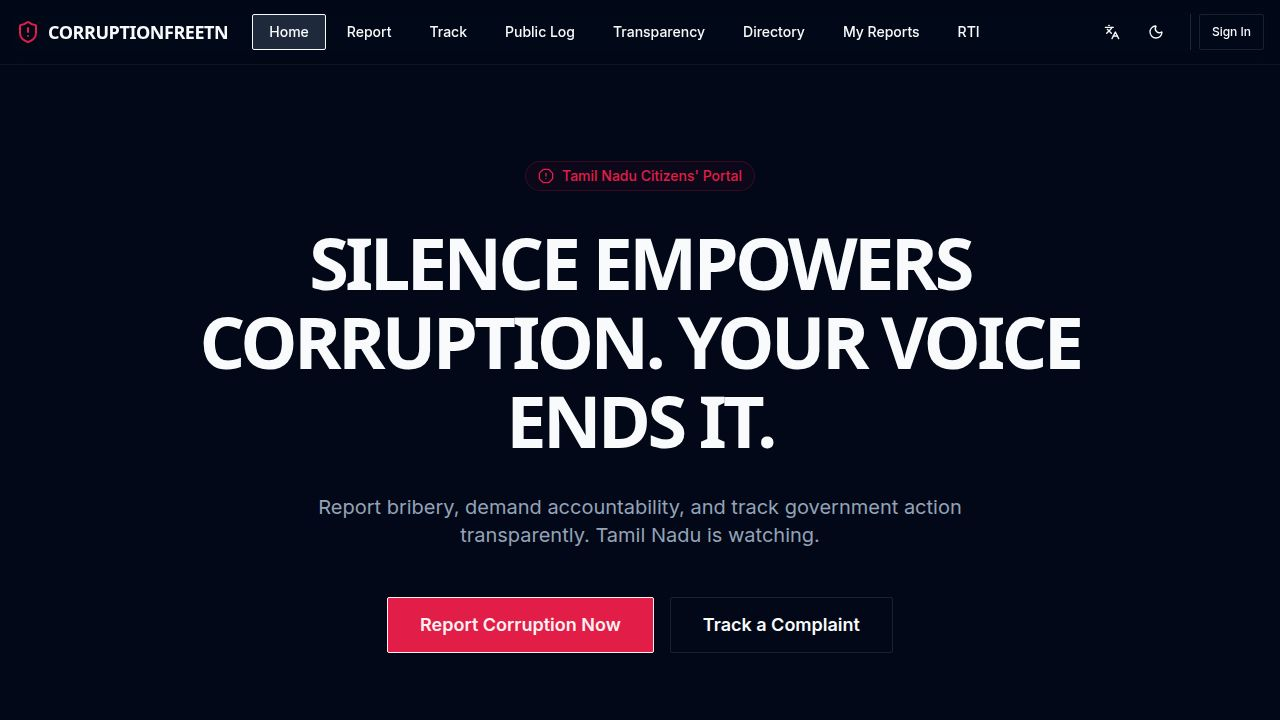
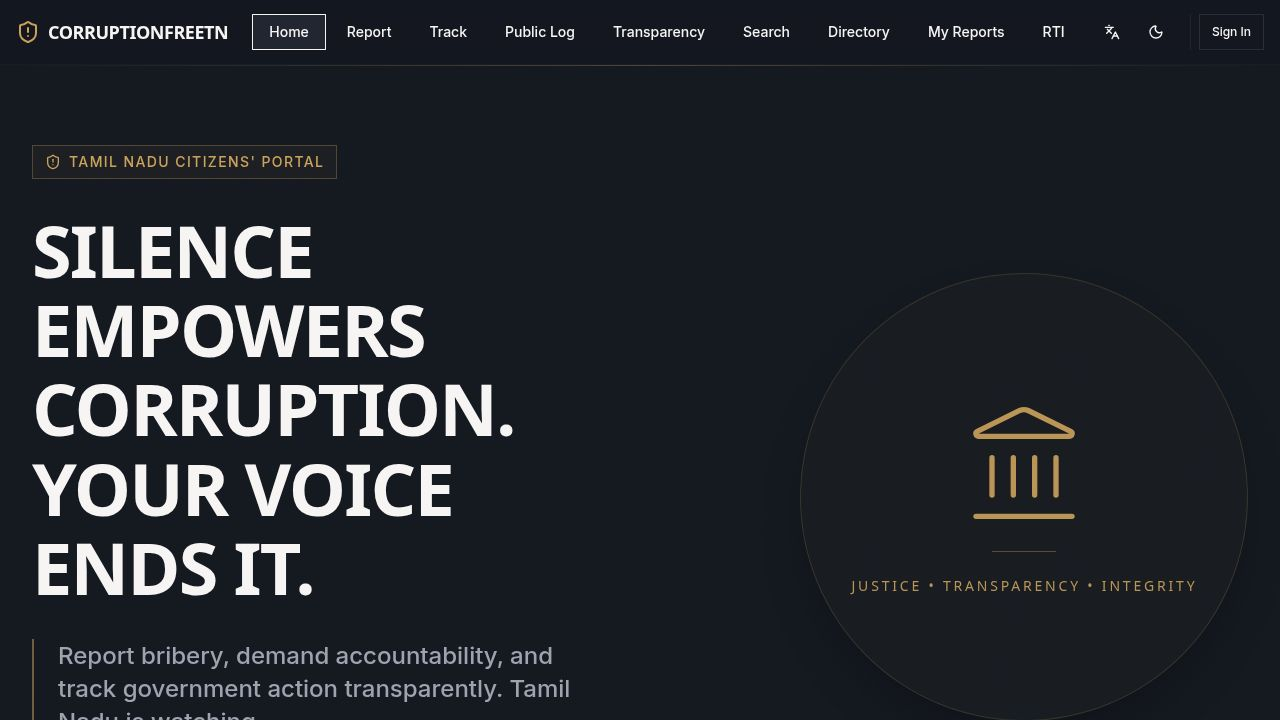
Task #16: Prevent lost complaints when file upload silently fails
- Reworked EvidenceUploader in artifacts/tn-portal/src/pages/submit.tsx:
  - Per-file upload state model (EvidenceItem: uploading/done/error) lifted
    to the Submit page, keeping the original File for retry.
  - Failed uploads now show an inline error row with a per-file Retry
    button (re-runs hash + upload URL request + PUT) and a remove button,
    instead of being silently dropped.
  - Destructive toast on failure with a description telling the user to
    retry or remove the file.
- Submit button on the review step is disabled while any file is failed
  or still uploading, with a visible hint ("Fix or remove failed uploads
  before submitting"), so complaints can no longer be filed with broken
  evidence references.
- Only files with status "done" (which have objectPath + fileHash) are
  attached via addEvidence on submit.
- Added English + Tamil translation keys: upload_failed, retry,
  evidence_upload_failed_toast, evidence_fix_uploads
  (artifacts/tn-portal/src/lib/translations.ts).
- Verified: tsc --noEmit passes; /submit page renders correctly.
- Proposed follow-ups: server-side verification of evidence objectPath
  (#17) and e2e test of the retry flow (#18).

Replit-Task-Id: 058a99db-75c5-4b92-9e1d-0240492a210c

diff --git a/artifacts/tn-portal/src/pages/submit.tsx b/artifacts/tn-portal/src/pages/submit.tsx
@@ -14,7 +14,8 @@ import { useCreateComplaint, useRequestUploadUrl, useAddEvidence, useAiClassifyC
 import { useUser } from "@clerk/react";
 import { useListDistricts, useListTaluks, useListDepartments, useListComplaintCategories, getListTaluksQueryKey } from "@workspace/api-client-react";
 import {
-  ChevronRight, ChevronLeft, Building, MapPin, User, Tag, FileText, CheckCircle, Paperclip, X, Upload, Sparkles
+  ChevronRight, ChevronLeft, Building, MapPin, User, Tag, FileText, CheckCircle, Paperclip, X, Upload, Sparkles,
+  AlertCircle, Loader2, RotateCw
 } from "lucide-react";
 
 const TOTAL_STEPS = 5;
@@ -82,20 +83,30 @@ function StepIndicator({ step, total }: { step: number; total: number }) {
   );
 }
 
-type UploadedFile = { name: string; objectPath: string; fileType: string; size: number; fileHash?: string };
+type EvidenceItem = {
+  id: string;
+  file: File | null;
+  name: string;
+  fileType: string;
+  size: number;
+  status: "uploading" | "done" | "error";
+  objectPath?: string;
+  fileHash?: string;
+};
 
 function EvidenceUploader({
-  files,
+  items,
   onChange,
 }: {
-  files: UploadedFile[];
-  onChange: (files: UploadedFile[]) => void;
+  items: EvidenceItem[];
+  onChange: (updater: (items: EvidenceItem[]) => EvidenceItem[]) => void;
 }) {
   const { t } = useI18n();
   const { toast } = useToast();
   const fileRef = useRef<HTMLInputElement>(null);
-  const [uploading, setUploading] = useState(false);
   const requestUpload = useRequestUploadUrl();
+
+  const anyUploading = items.some((i) => i.status === "uploading");
 
   const computeHash = async (file: File): Promise<string> => {
     const buf = await file.arrayBuffer();
@@ -105,36 +116,55 @@ function EvidenceUploader({
       .join("");
   };
 
-  const handleFiles = async (selected: FileList | null) => {
+  const uploadItem = async (id: string, file: File) => {
+    onChange((prev) =>
+      prev.map((it) => (it.id === id ? { ...it, status: "uploading" } : it))
+    );
+    try {
+      const [fileHash, uploadResult] = await Promise.all([
+        computeHash(file),
+        requestUpload.mutateAsync({
+          data: { name: file.name, size: file.size, contentType: file.type },
+        }),
+      ]);
+      const { uploadURL, objectPath } = uploadResult;
+      const putRes = await fetch(uploadURL, {
+        method: "PUT",
+        body: file,
+        headers: { "Content-Type": file.type },
+      });
+      if (!putRes.ok) throw new Error("Upload failed");
+      onChange((prev) =>
+        prev.map((it) =>
+          it.id === id ? { ...it, status: "done", objectPath, fileHash } : it
+        )
+      );
+    } catch {
+      onChange((prev) =>
+        prev.map((it) => (it.id === id ? { ...it, status: "error" } : it))
+      );
+      toast({
+        title: `${t("upload_failed")}: ${file.name}`,
+        description: t("evidence_upload_failed_toast"),
+        variant: "destructive",
+      });
+    }
+  };
+
+  const handleFiles = (selected: FileList | null) => {
     if (!selected || selected.length === 0) return;
-    setUploading(true);
-    const newFiles: UploadedFile[] = [];
     for (const file of Array.from(selected)) {
       if (file.size > 20 * 1024 * 1024) {
         toast({ title: `${file.name}: max 20MB`, variant: "destructive" });
         continue;
       }
-      try {
-        const [fileHash, uploadResult] = await Promise.all([
-          computeHash(file),
-          requestUpload.mutateAsync({
-            data: { name: file.name, size: file.size, contentType: file.type },
-          }),
-        ]);
-        const { uploadURL, objectPath } = uploadResult;
-        const putRes = await fetch(uploadURL, {
-          method: "PUT",
-          body: file,
-          headers: { "Content-Type": file.type },
-        });
-        if (!putRes.ok) throw new Error("Upload failed");
-        newFiles.push({ name: file.name, objectPath, fileType: file.type, size: file.size, fileHash });
-      } catch {
-        toast({ title: `Failed to upload ${file.name}`, variant: "destructive" });
-      }
+      const id = `${Date.now()}-${Math.random().toString(36).slice(2)}`;
+      onChange((prev) => [
+        ...prev,
+        { id, file, name: file.name, fileType: file.type, size: file.size, status: "uploading" },
+      ]);
+      void uploadItem(id, file);
     }
-    onChange([...files, ...newFiles]);
-    setUploading(false);
     if (fileRef.current) fileRef.current.value = "";
   };
 
@@ -146,7 +176,7 @@ function EvidenceUploader({
       >
         <Upload className="h-8 w-8 text-muted-foreground mx-auto mb-2" />
         <p className="text-sm text-muted-foreground">
-          {uploading ? t("uploading") : t("evidence_drop_hint")}
+          {anyUploading ? t("uploading") : t("evidence_drop_hint")}
         </p>
         <p className="text-xs text-muted-foreground mt-1">{t("evidence_types")}</p>
         <input
@@ -158,16 +188,49 @@ function EvidenceUploader({
           onChange={(e) => handleFiles(e.target.files)}
         />
       </div>
-      {files.length > 0 && (
+      {items.length > 0 && (
         <ul className="space-y-2">
-          {files.map((f, i) => (
-            <li key={i} className="flex items-center gap-2 bg-muted/20 rounded px-3 py-2 text-sm">
-              <Paperclip className="h-3.5 w-3.5 text-primary shrink-0" />
+          {items.map((f) => (
+            <li
+              key={f.id}
+              className={`flex items-center gap-2 rounded px-3 py-2 text-sm ${
+                f.status === "error"
+                  ? "bg-destructive/10 border border-destructive/30"
+                  : "bg-muted/20"
+              }`}
+            >
+              {f.status === "error" ? (
+                <AlertCircle className="h-3.5 w-3.5 text-destructive shrink-0" />
+              ) : f.status === "uploading" ? (
+                <Loader2 className="h-3.5 w-3.5 text-primary shrink-0 animate-spin" />
+              ) : (
+                <Paperclip className="h-3.5 w-3.5 text-primary shrink-0" />
+              )}
               <span className="truncate flex-1 text-foreground">{f.name}</span>
-              <span className="text-muted-foreground text-xs shrink-0">{(f.size / 1024).toFixed(0)}KB</span>
+              {f.status === "error" ? (
+                <>
+                  <span className="text-destructive text-xs font-medium shrink-0">
+                    {t("upload_failed")}
+                  </span>
+                  {f.file && (
+                    <button
+                      type="button"
+                      onClick={() => f.file && uploadItem(f.id, f.file)}
+                      className="flex items-center gap-1 text-xs font-semibold text-primary hover:underline shrink-0"
+                    >
+                      <RotateCw className="h-3 w-3" />
+                      {t("retry")}
+                    </button>
+                  )}
+                </>
+              ) : (
+                <span className="text-muted-foreground text-xs shrink-0">
+                  {(f.size / 1024).toFixed(0)}KB
+                </span>
+              )}
               <button
                 type="button"
-                onClick={() => onChange(files.filter((_, j) => j !== i))}
+                onClick={() => onChange((prev) => prev.filter((it) => it.id !== f.id))}
                 className="text-muted-foreground hover:text-destructive transition-colors"
               >
                 <X className="h-3.5 w-3.5" />
@@ -187,7 +250,9 @@ export default function Submit() {
   const { isSignedIn } = useUser();
   const [step, setStep] = useState(1);
   const [form, setForm] = useState<FormData>(empty);
-  const [evidenceFiles, setEvidenceFiles] = useState<UploadedFile[]>([]);
+  const [evidenceItems, setEvidenceItems] = useState<EvidenceItem[]>([]);
+  const evidenceFiles = evidenceItems.filter((it) => it.status === "done");
+  const hasUploadIssues = evidenceItems.some((it) => it.status === "error" || it.status === "uploading");
   const [result, setResult] = useState<{ complaintNumber: string; id: number } | null>(null);
 
   const canUploadEvidence = isSignedIn && !form.isAnonymous;
@@ -261,7 +326,7 @@ export default function Submit() {
         try {
           await addEvidence.mutateAsync({
             complaintId: created.id,
-            data: { fileUrl: f.objectPath, fileType: f.fileType, fileHash: f.fileHash, description: f.name },
+            data: { fileUrl: f.objectPath!, fileType: f.fileType, fileHash: f.fileHash, description: f.name },
           });
         } catch {
           evidenceFailed++;
@@ -307,7 +372,7 @@ export default function Submit() {
             <Button
               onClick={() => {
                 setForm(empty);
-                setEvidenceFiles([]);
+                setEvidenceItems([]);
                 setResult(null);
                 setStep(1);
               }}
@@ -620,7 +685,7 @@ export default function Submit() {
               <div className="space-y-2">
                 <Label>{t("evidence_label")}</Label>
                 {canUploadEvidence ? (
-                  <EvidenceUploader files={evidenceFiles} onChange={setEvidenceFiles} />
+                  <EvidenceUploader items={evidenceItems} onChange={setEvidenceItems} />
                 ) : (
                   <div className="rounded-lg border border-border/40 bg-muted/20 px-4 py-3 text-sm text-muted-foreground">
                     {!isSignedIn
@@ -635,7 +700,7 @@ export default function Submit() {
                   checked={form.isAnonymous}
                   onCheckedChange={(v) => {
                     upd("isAnonymous", !!v);
-                    if (!!v) setEvidenceFiles([]);
+                    if (!!v) setEvidenceItems([]);
                   }}
                 />
                 <div>
@@ -750,14 +815,19 @@ export default function Submit() {
                 <ChevronRight className="h-4 w-4" />
               </Button>
             ) : (
-              <Button
-                onClick={handleSubmit}
-                disabled={createComplaint.isPending}
-                className="gap-2 min-w-[140px]"
-              >
-                {createComplaint.isPending ? t("submitting") : t("submit_btn")}
-                {!createComplaint.isPending && <CheckCircle className="h-4 w-4" />}
-              </Button>
+              <div className="flex flex-col items-end gap-1.5">
+                <Button
+                  onClick={handleSubmit}
+                  disabled={createComplaint.isPending || hasUploadIssues}
+                  className="gap-2 min-w-[140px]"
+                >
+                  {createComplaint.isPending ? t("submitting") : t("submit_btn")}
+                  {!createComplaint.isPending && <CheckCircle className="h-4 w-4" />}
+                </Button>
+                {hasUploadIssues && (
+                  <p className="text-xs text-destructive text-right">{t("evidence_fix_uploads")}</p>
+                )}
+              </div>
             )}
           </div>
         </CardContent>

diff --git a/artifacts/tn-portal/src/lib/translations.ts b/artifacts/tn-portal/src/lib/translations.ts
@@ -35,6 +35,10 @@ export const translations = {
     evidence_anon_notice: "Evidence upload is not available for anonymous complaints. Uncheck \"Submit anonymously\" to attach files.",
     evidence_auth_notice: "Sign in to attach evidence files to your complaint.",
     evidence_error: "Some files could not be attached. Your complaint was filed, but please re-submit evidence.",
+    upload_failed: "Upload failed",
+    retry: "Retry",
+    evidence_upload_failed_toast: "The file could not be uploaded. Tap Retry next to the file, or remove it to continue.",
+    evidence_fix_uploads: "Fix or remove failed uploads before submitting.",
     form_location: "Specific Location (Optional)",
     form_witnesses: "Witnesses (Optional)",
     submit_btn: "Submit Report securely",
@@ -154,6 +158,10 @@ export const translations = {
     evidence_anon_notice: "பெயர் சொல்லாமல் தாக்கல் செய்யும்போது ஆவணம் இணைக்க முடியாது. ஆவணம் இணைக்க \"பெயர் சொல்லாமல் அனுப்பு\" என்பதை நீக்கவும்.",
     evidence_auth_notice: "ஆவணங்கள் இணைக்க உள்நுழையவும்.",
     evidence_error: "சில கோப்புகள் இணைக்கப்படவில்லை. உங்கள் புகார் தாக்கல் செய்யப்பட்டது — தயவுசெய்து ஆவணங்களை மீண்டும் சமர்ப்பிக்கவும்.",
+    upload_failed: "பதிவேற்றம் தோல்வியடைந்தது",
+    retry: "மீண்டும் முயற்சி",
+    evidence_upload_failed_toast: "கோப்பைப் பதிவேற்ற முடியவில்லை. கோப்பின் அருகில் உள்ள 'மீண்டும் முயற்சி' என்பதை அழுத்தவும், அல்லது கோப்பை நீக்கிவிட்டு தொடரவும்.",
+    evidence_fix_uploads: "சமர்ப்பிக்கும் முன் தோல்வியடைந்த பதிவேற்றங்களை சரிசெய்யவும் அல்லது நீக்கவும்.",
     form_location: "நடந்த இடம் (கட்டாயம் இல்லை)",
     form_witnesses: "சாட்சிகள் (கட்டாயம் இல்லை)",
     submit_btn: "புகாரைப் பாதுகாப்பாக அனுப்புங்கள்",